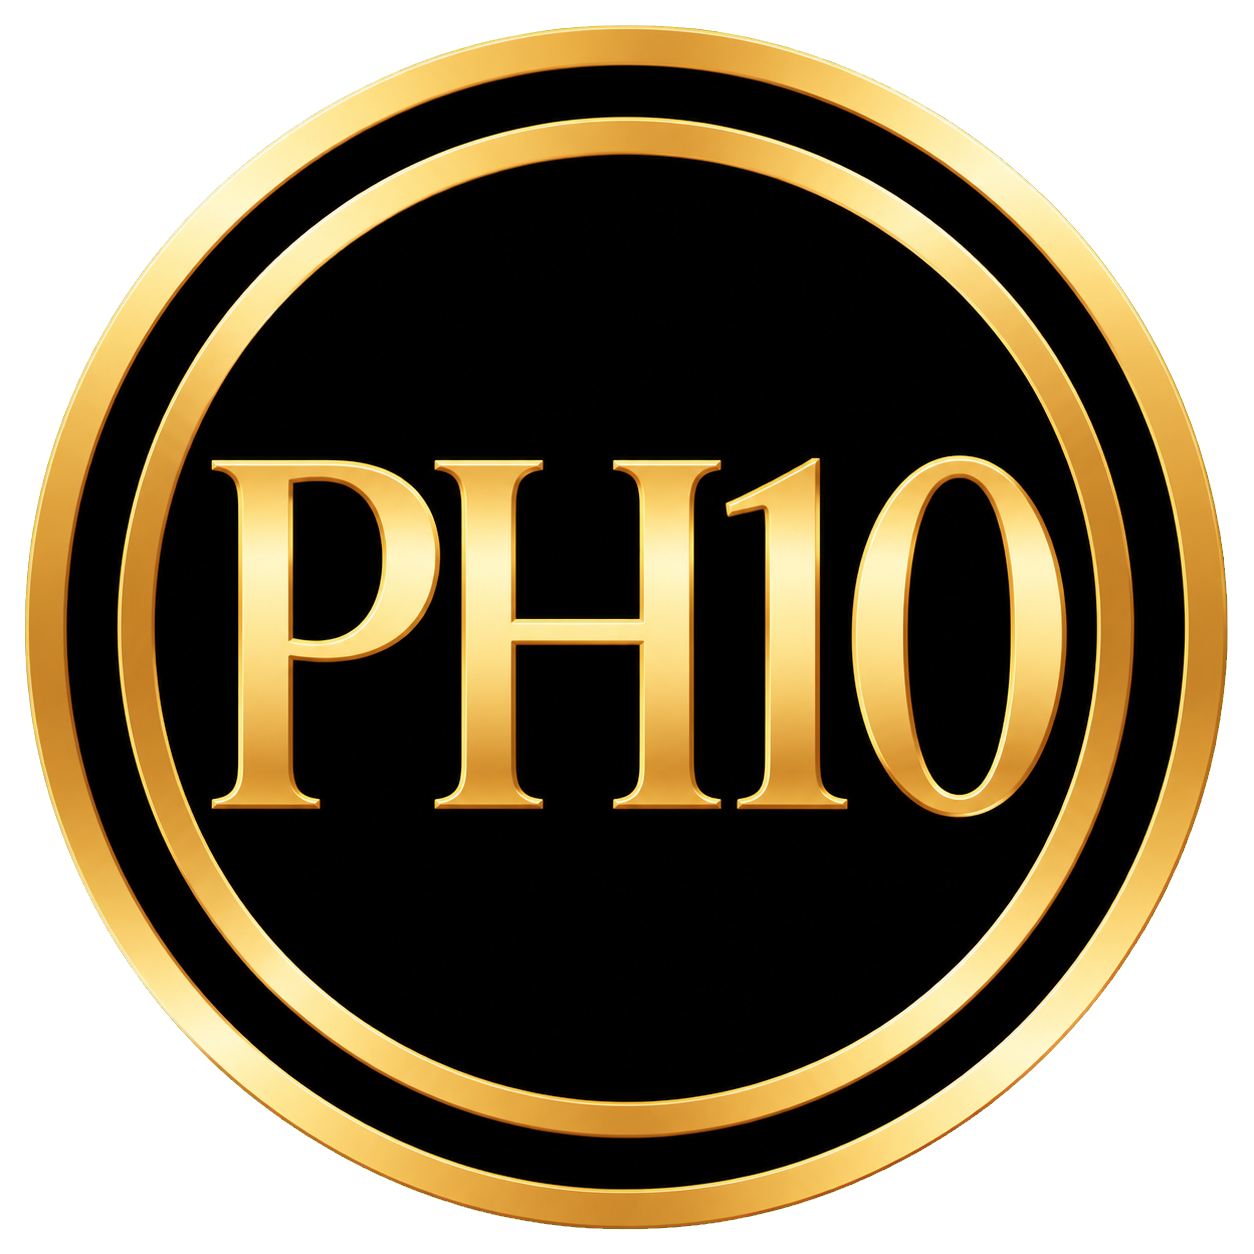
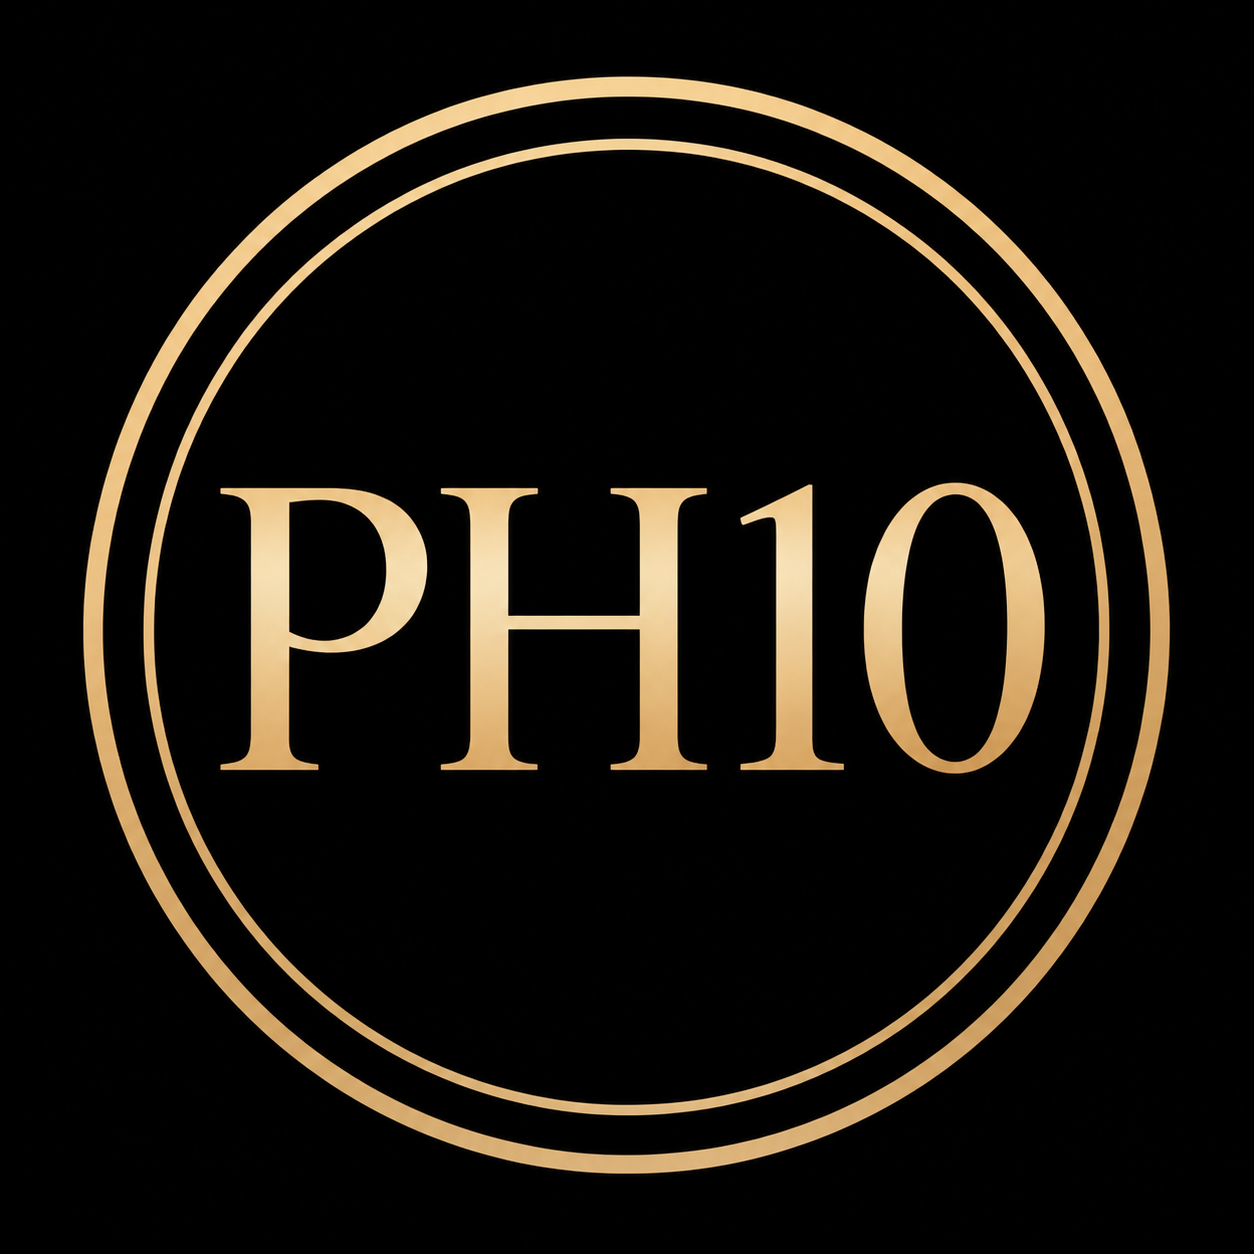
fotinha de app

diff --git a/src/app/manifest.ts b/src/app/manifest.ts
@@ -13,19 +13,19 @@ export default function manifest(): MetadataRoute.Manifest {
     theme_color: "#24211e",
     icons: [
       {
-        src: "/icons/icon-192.png?v=2",
+        src: "/icons/icon-192.png?v=3",
         sizes: "192x192",
         type: "image/png",
         purpose: "any",
       },
       {
-        src: "/icons/icon-512.png?v=2",
+        src: "/icons/icon-512.png?v=3",
         sizes: "512x512",
         type: "image/png",
         purpose: "any",
       },
       {
-        src: "/icons/icon-maskable-512.png?v=2",
+        src: "/icons/icon-maskable-512.png?v=3",
         sizes: "512x512",
         type: "image/png",
         purpose: "maskable",

diff --git a/src/app/layout.tsx b/src/app/layout.tsx
@@ -8,10 +8,9 @@ export const metadata: Metadata = {
   manifest: "/manifest.webmanifest",
   icons: {
     icon: [
-      { url: "/icons/favicon-48.png?v=2", type: "image/png", sizes: "48x48" },
-      { url: "/icons/icon-192.png?v=2", type: "image/png", sizes: "192x192" },
+      { url: "/icons/favicon-48.png?v=3", type: "image/png", sizes: "48x48" },
     ],
-    apple: [{ url: "/icons/apple-touch-icon.png?v=2", sizes: "180x180", type: "image/png" }],
+    apple: [{ url: "/icons/apple-touch-icon.png?v=3", sizes: "180x180", type: "image/png" }],
   },
   appleWebApp: {
     capable: true,
